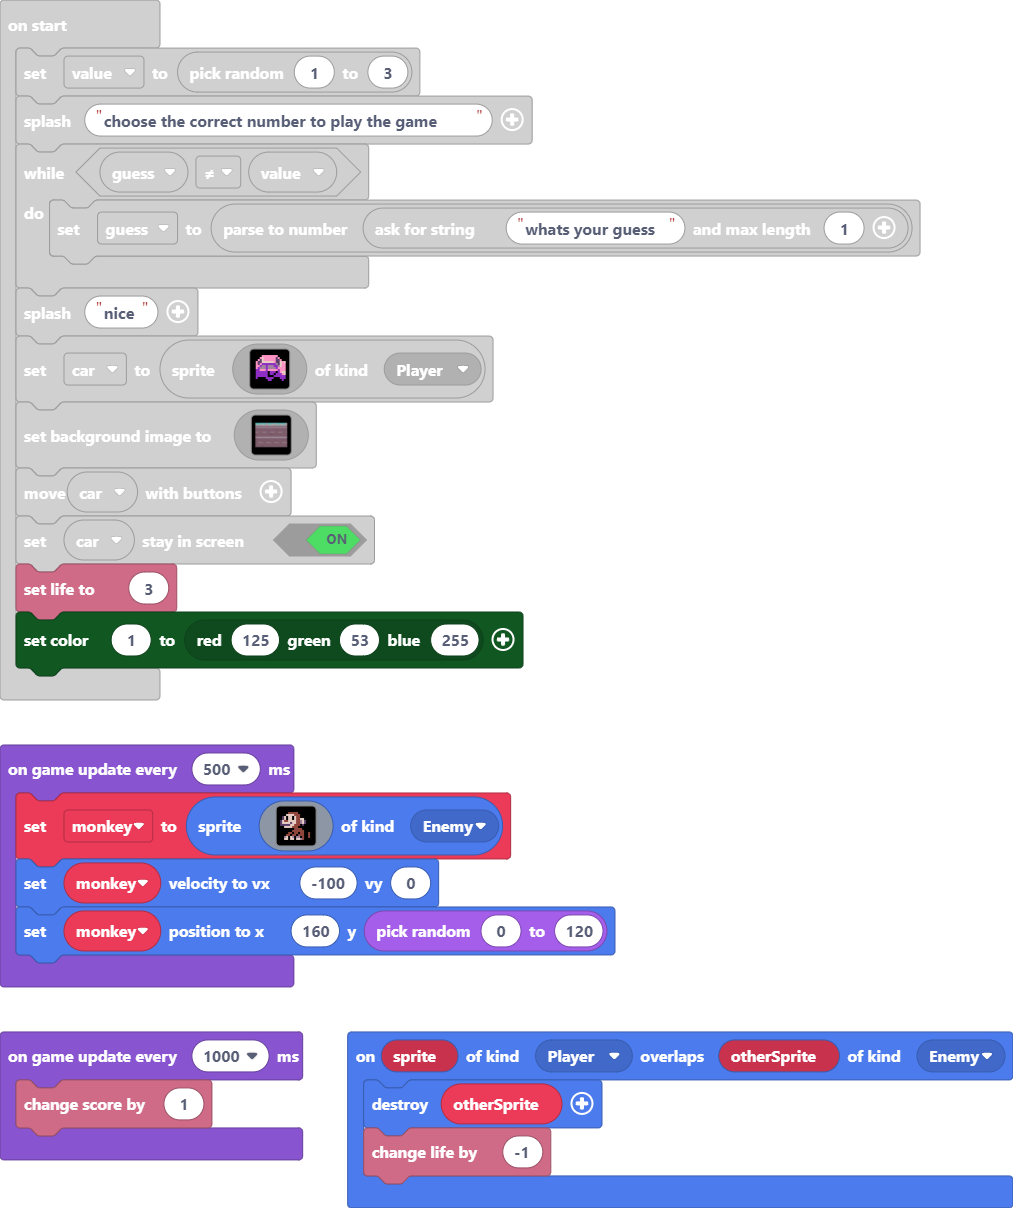
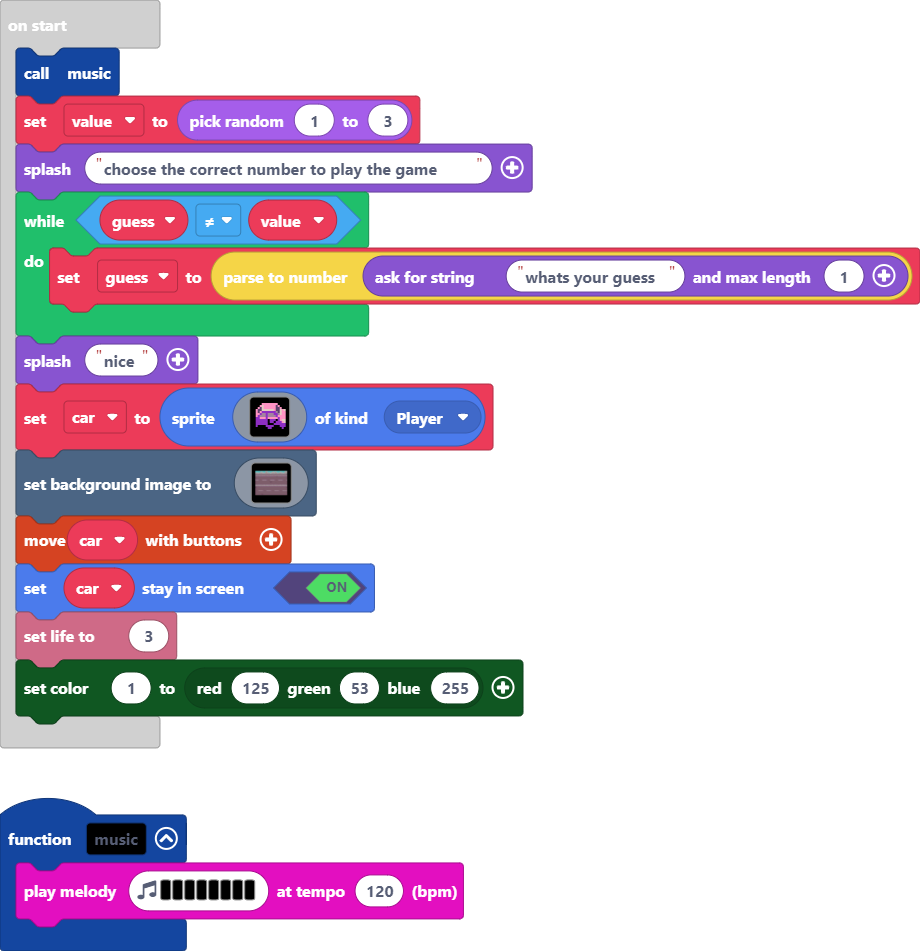
Update main.blocks, main.ts

diff --git a/main.ts b/main.ts
@@ -1,9 +1,13 @@
+function music2 () {
+    music.playMelody("D D A A B B A A ", 120)
+}
 sprites.onOverlap(SpriteKind.Player, SpriteKind.Enemy, function (sprite, otherSprite) {
     otherSprite.destroy()
     info.changeLifeBy(-1)
 })
 let monkey: Sprite = null
 let guess = 0
+music2()
 let value = randint(1, 3)
 game.splash("choose the correct number to play the game")
 while (guess != value) {
